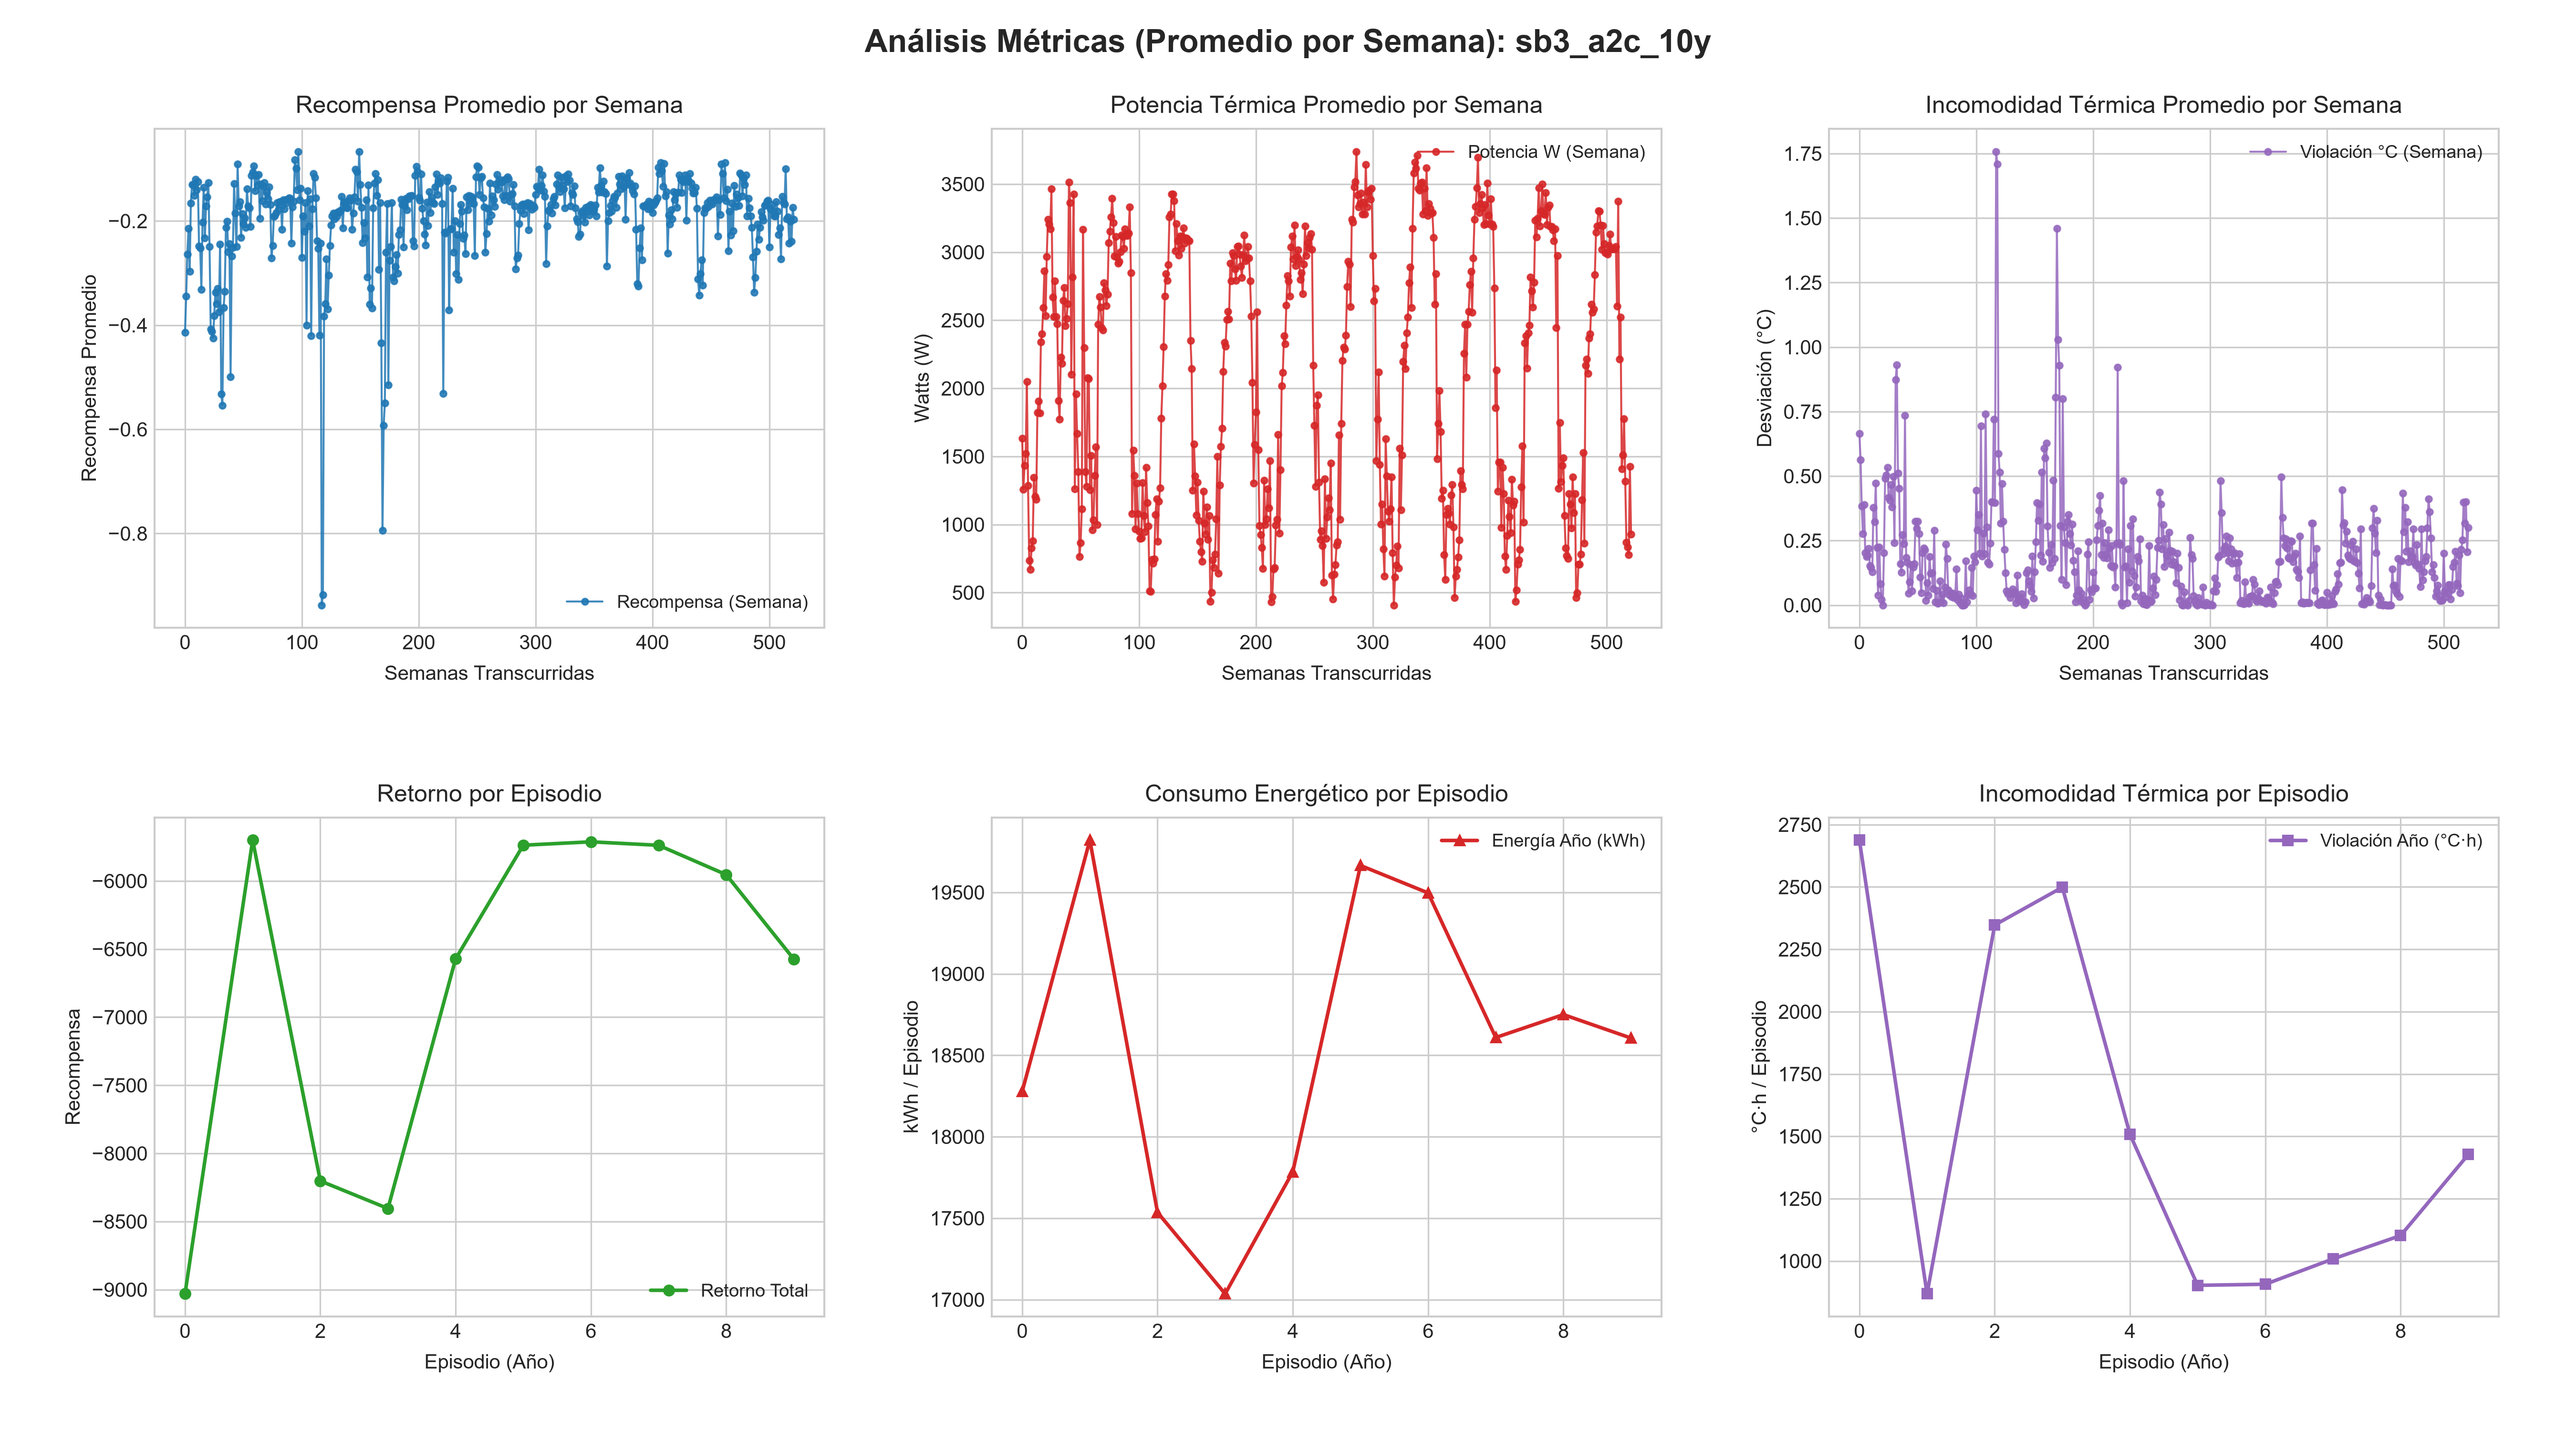
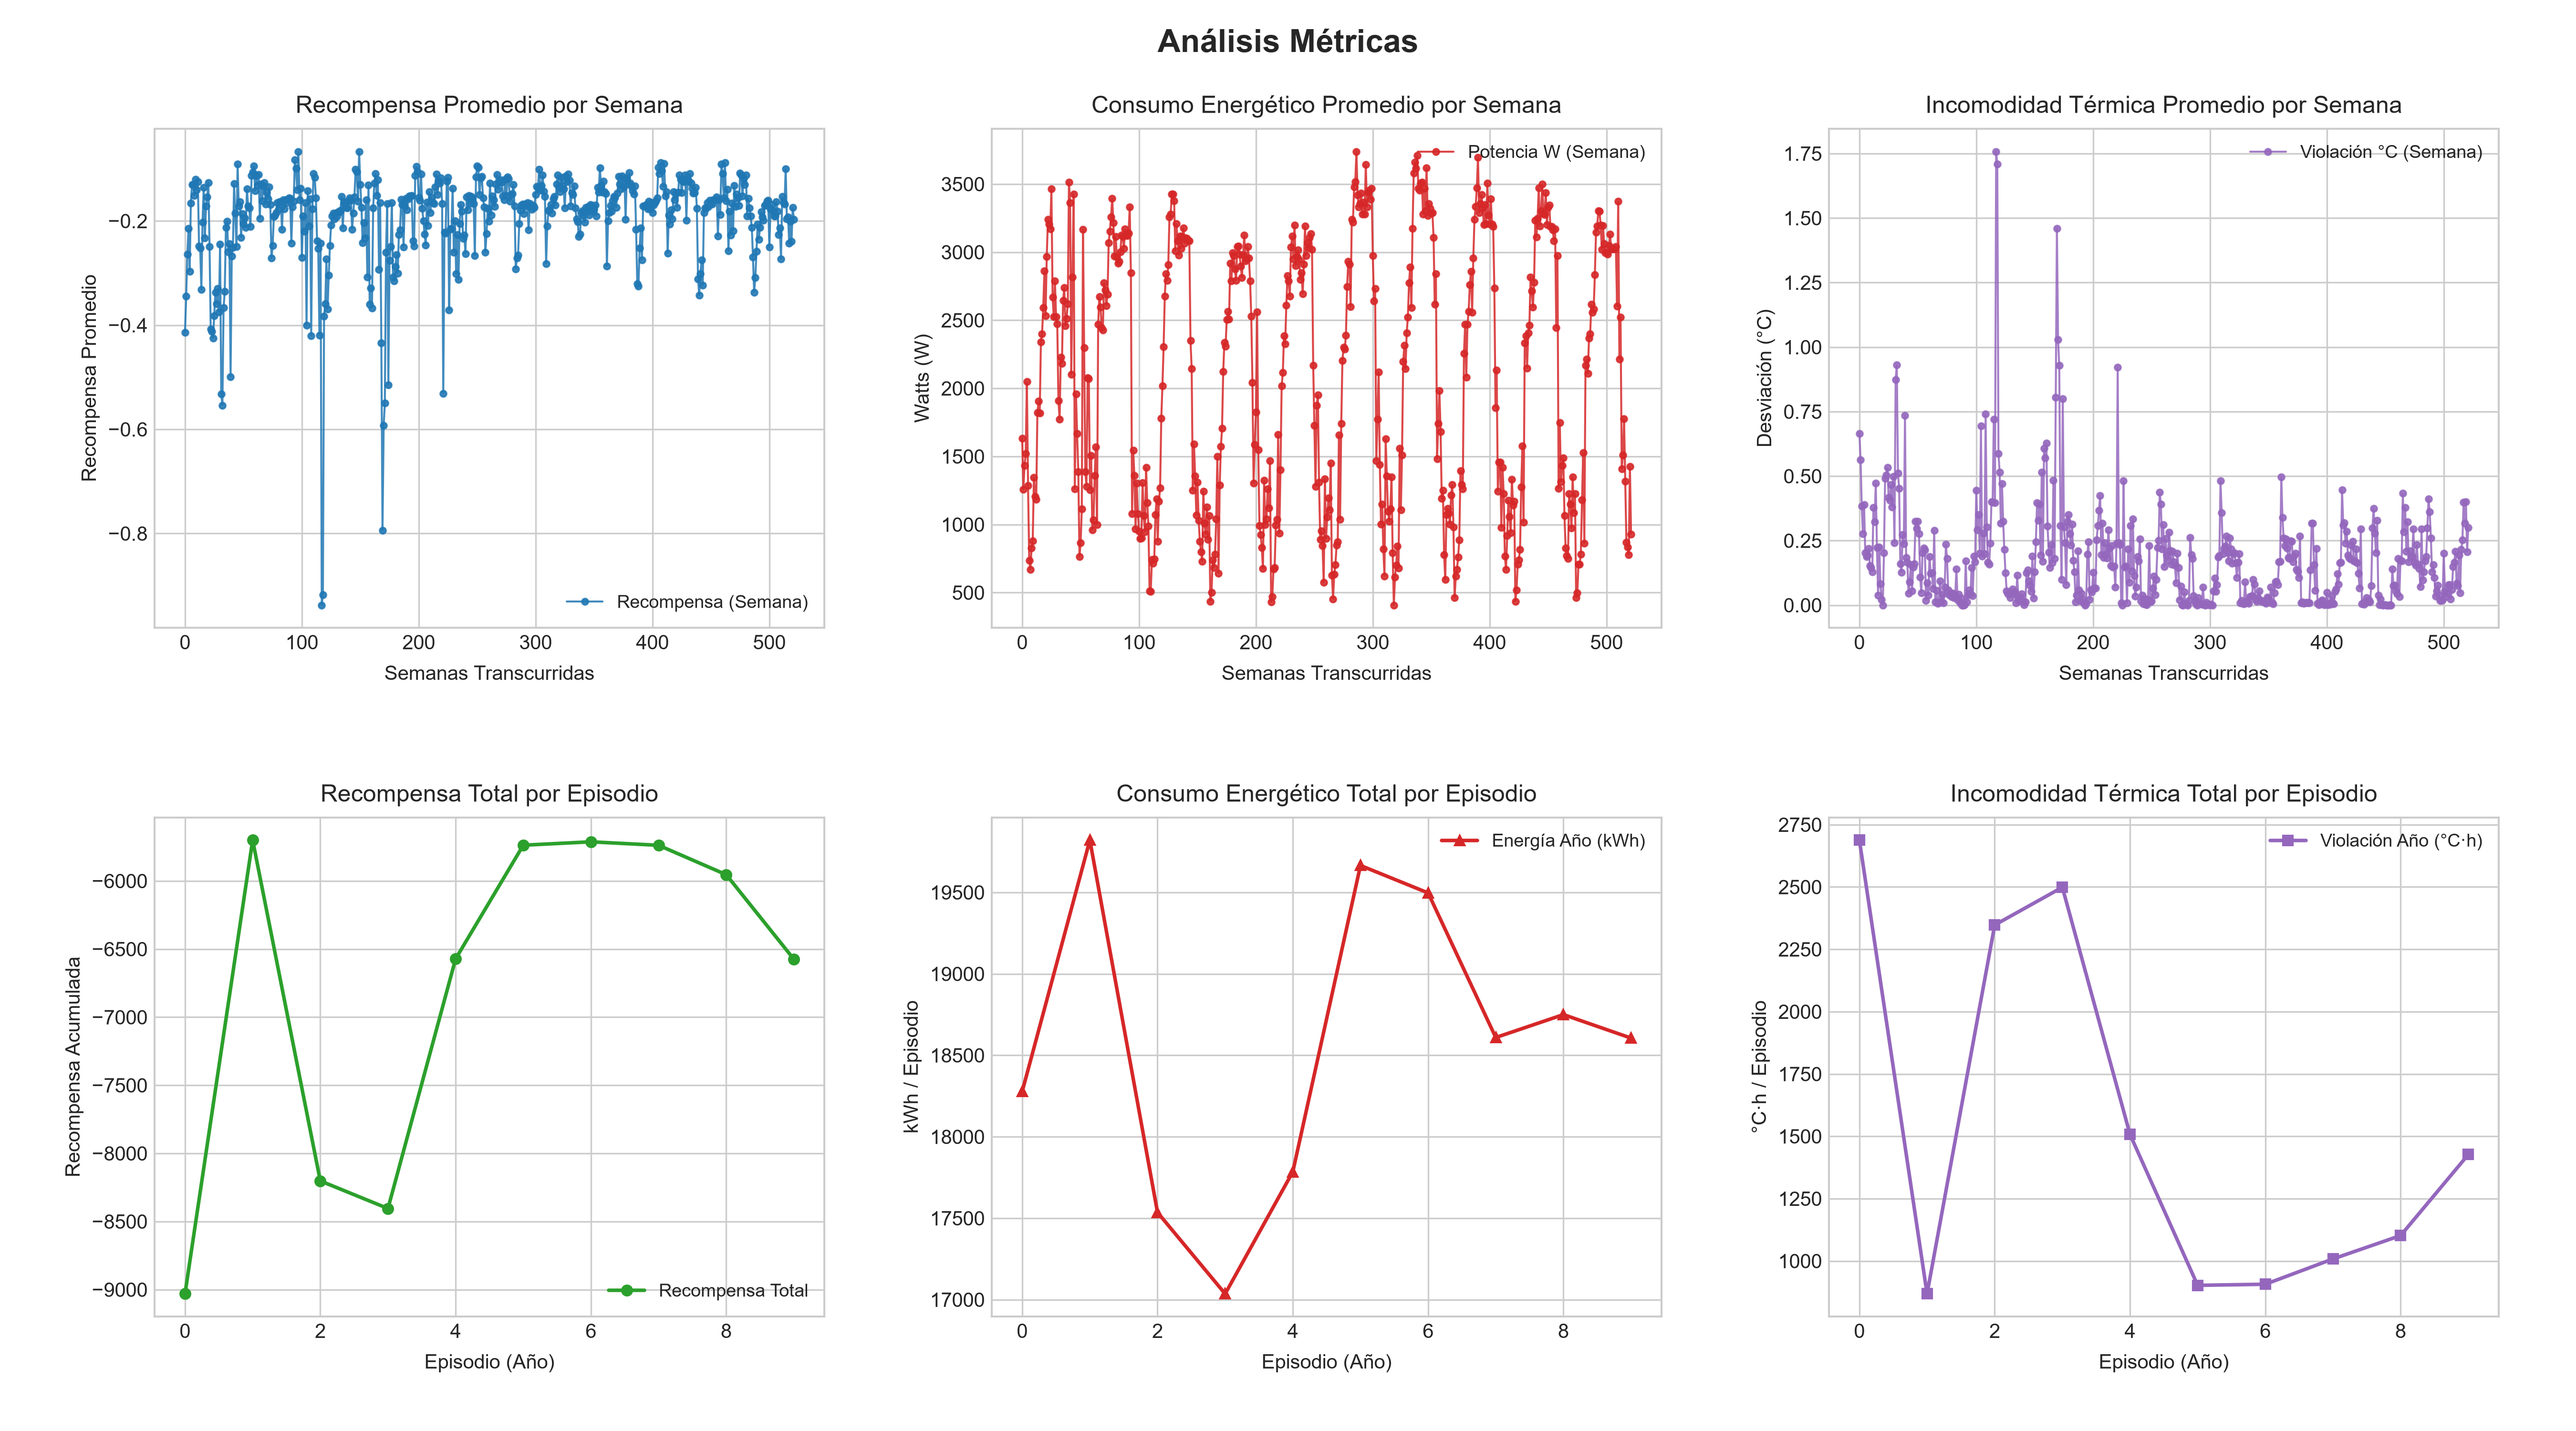
fix: Coherencia entre titulo promedio y total

diff --git a/plot_metrics.py b/plot_metrics.py
@@ -29,7 +29,7 @@ def plot_run_metrics(run_folder, runs_dir="runs", freq="W"):
     fig, axes = plt.subplots(2, 3, figsize=(18, 10))
     freq_label = "Semana" if freq == "W" else "Día"
     fig.suptitle(
-        f"Análisis Métricas (Promedio por {freq_label}): {run_folder}",
+        f"Análisis Métricas",
         fontsize=16,
         fontweight="bold",
         y=0.98,
@@ -40,7 +40,7 @@ def plot_run_metrics(run_folder, runs_dir="runs", freq="W"):
     lw = 1.0  # grosor de la línea (linewidth)
 
     # -------------------------------------------------------------
-    # 1. FILA SUPERIOR: MÉTRICAS POR STEP AGRUPADAS
+    # 1. FILA SUPERIOR: MÉTRICAS PROMEDIADAS (Por Semana/Día)
     # -------------------------------------------------------------
     if step_csv.exists():
         print(f"📈 Leyendo steps desde: {step_csv}")
@@ -51,7 +51,7 @@ def plot_run_metrics(run_folder, runs_dir="runs", freq="W"):
         df_resampled = df_step.groupby(df_step.index // window_size).mean()
         x_step = df_resampled.index
 
-        # (1.1) Recompensa Media por Periodo
+        # (1.1) Recompensa Promedio por Periodo
         if "reward" in df_resampled.columns:
             axes[0, 0].plot(
                 x_step,
@@ -63,12 +63,12 @@ def plot_run_metrics(run_folder, runs_dir="runs", freq="W"):
                 alpha=0.85,
                 label=f"Recompensa ({freq_label})",
             )
-            axes[0, 0].set_title("Recompensa Promedio por Semana", pad=8)
-            axes[0, 0].set_xlabel("Semanas Transcurridas", labelpad=6)
+            axes[0, 0].set_title(f"Recompensa Promedio por {freq_label}", pad=8)
+            axes[0, 0].set_xlabel(f"{freq_label}s Transcurridas", labelpad=6)
             axes[0, 0].set_ylabel("Recompensa Promedio")
             axes[0, 0].legend(loc="lower right", fontsize=9)
 
-        # (1.2) Potencia Promedio (W) por Periodo
+        # (1.2) Consumo Energético Promedio (Potencia W) por Periodo
         if "power_w" in df_resampled.columns:
             axes[0, 1].plot(
                 x_step,
@@ -80,8 +80,10 @@ def plot_run_metrics(run_folder, runs_dir="runs", freq="W"):
                 alpha=0.85,
                 label=f"Potencia W ({freq_label})",
             )
-            axes[0, 1].set_title("Potencia Térmica Promedio por Semana", pad=8)
-            axes[0, 1].set_xlabel("Semanas Transcurridas", labelpad=6)
+            axes[0, 1].set_title(
+                f"Consumo Energético Promedio por {freq_label}", pad=8
+            )
+            axes[0, 1].set_xlabel(f"{freq_label}s Transcurridas", labelpad=6)
             axes[0, 1].set_ylabel("Watts (W)")
             axes[0, 1].legend(loc="upper right", fontsize=9)
 
@@ -98,20 +100,21 @@ def plot_run_metrics(run_folder, runs_dir="runs", freq="W"):
                 label=f"Violación °C ({freq_label})",
             )
             axes[0, 2].set_title(
-                "Incomodidad Térmica Promedio por Semana", pad=8
+                f"Incomodidad Térmica Promedio por {freq_label}", pad=8
             )
-            axes[0, 2].set_xlabel("Semanas Transcurridas", labelpad=6)
+            axes[0, 2].set_xlabel(f"{freq_label}s Transcurridas", labelpad=6)
             axes[0, 2].set_ylabel("Desviación (°C)")
             axes[0, 2].legend(loc="upper right", fontsize=9)
 
     # -------------------------------------------------------------
-    # 2. FILA INFERIOR: MÉTRICAS POR EPISODIO
+    # 2. FILA INFERIOR: MÉTRICAS TOTALES POR EPISODIO (Por Año)
     # -------------------------------------------------------------
     if ep_csv.exists():
         print(f"📊 Leyendo episodios desde: {ep_csv}")
         df_ep = pd.read_csv(ep_csv)
         x_ep = df_ep["episode"] if "episode" in df_ep.columns else df_ep.index
 
+        # (2.1) Recompensa Total por Episodio (Retorno)
         if "return" in df_ep.columns:
             axes[1, 0].plot(
                 x_ep,
@@ -120,13 +123,14 @@ def plot_run_metrics(run_folder, runs_dir="runs", freq="W"):
                 markersize=5,
                 linewidth=1.8,
                 color="tab:green",
-                label="Retorno Total",
+                label="Recompensa Total",
             )
-            axes[1, 0].set_title("Retorno por Episodio", pad=8)
+            axes[1, 0].set_title("Recompensa Total por Episodio", pad=8)
             axes[1, 0].set_xlabel("Episodio (Año)", labelpad=6)
-            axes[1, 0].set_ylabel("Recompensa")
+            axes[1, 0].set_ylabel("Recompensa Acumulada")
             axes[1, 0].legend(fontsize=9)
 
+        # (2.2) Consumo Energético Total por Episodio (kWh)
         if "energy_kwh" in df_ep.columns:
             axes[1, 1].plot(
                 x_ep,
@@ -137,11 +141,12 @@ def plot_run_metrics(run_folder, runs_dir="runs", freq="W"):
                 color="tab:red",
                 label="Energía Año (kWh)",
             )
-            axes[1, 1].set_title("Consumo Energético por Episodio", pad=8)
+            axes[1, 1].set_title("Consumo Energético Total por Episodio", pad=8)
             axes[1, 1].set_xlabel("Episodio (Año)", labelpad=6)
             axes[1, 1].set_ylabel("kWh / Episodio")
             axes[1, 1].legend(fontsize=9)
 
+        # (2.3) Incomodidad Térmica Total por Episodio (°C·h)
         if "violation_degC_h" in df_ep.columns:
             axes[1, 2].plot(
                 x_ep,
@@ -152,7 +157,9 @@ def plot_run_metrics(run_folder, runs_dir="runs", freq="W"):
                 color="tab:purple",
                 label="Violación Año (°C·h)",
             )
-            axes[1, 2].set_title("Incomodidad Térmica por Episodio", pad=8)
+            axes[1, 2].set_title(
+                "Incomodidad Térmica Total por Episodio", pad=8
+            )
             axes[1, 2].set_xlabel("Episodio (Año)", labelpad=6)
             axes[1, 2].set_ylabel("°C·h / Episodio")
             axes[1, 2].legend(fontsize=9)
